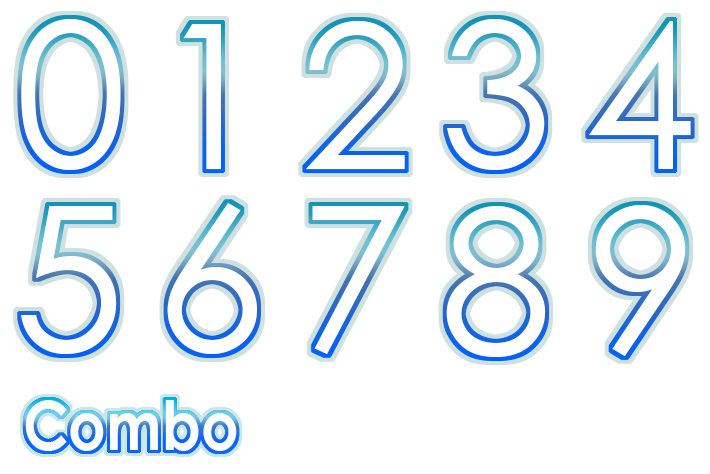
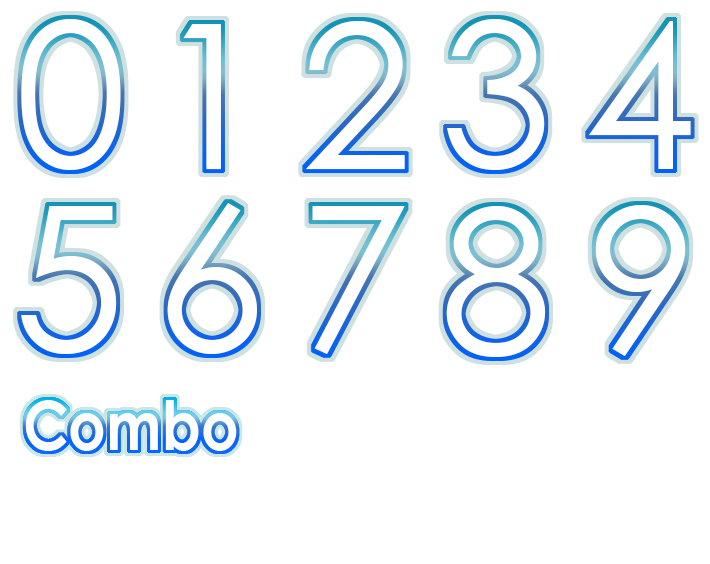
コンボ表示を実装。

diff --git a/DTXmatixx/ステージ/演奏/コンボ.cs b/DTXmatixx/ステージ/演奏/コンボ.cs
@@ -3,8 +3,11 @@ using System.Collections.Generic;
 using System.Diagnostics;
 using System.Linq;
 using SharpDX;
+using SharpDX.Animation;
+using SharpDX.Direct2D1;
 using FDK;
 using FDK.メディア;
+using FDK.カウンタ;
 
 namespace DTXmatixx.ステージ.演奏
 {
@@ -14,62 +17,245 @@ namespace DTXmatixx.ステージ.演奏
 		{
 			get;
 			set;
-		} = 1234567;
+		} = 0;
 
 		public コンボ()
 		{
-			this.子リスト.Add( this._コンボ文字画像 = new テクスチャ( @"$(System)images\コンボ文字.png" ) );
+			this.子リスト.Add( this._コンボ文字画像 = new 画像( @"$(System)images\コンボ文字.png" ) );
 		}
 
 		protected override void On活性化( グラフィックデバイス gd )
 		{
 			using( Log.Block( FDKUtilities.現在のメソッド名 ) )
 			{
+				this.現在値 = 0;
+				this._前回表示した値 = 0;
+				this._前回表示した数字 = "    ";
 				this._コンボ文字画像の矩形 = new 矩形リスト( @"$(System)images\コンボ文字矩形.xml" );
+
+				this._各桁のアニメ = new 各桁のアニメ[ 4 ];
+				for( int i = 0; i < this._各桁のアニメ.Length; i++ )
+					this._各桁のアニメ[ i ] = new 各桁のアニメ();
+
+				this._百ごとのアニメ = new 百ごとのアニメ();
 			}
 		}
 		protected override void On非活性化( グラフィックデバイス gd )
 		{
 			using( Log.Block( FDKUtilities.現在のメソッド名 ) )
 			{
+				for( int i = 0; i < this._各桁のアニメ.Length; i++ )
+					this._各桁のアニメ[ i ].Dispose();
+				this._各桁のアニメ = null;
+
+				FDKUtilities.解放する( ref this._百ごとのアニメ );
 			}
 		}
 
-		public void 進行描画する( グラフィックデバイス gd )
+		/// <param name="全体の中央位置">
+		///		パネル(dc)の左上を原点とする座標。
+		/// </param>
+		public void 進行描画する( DeviceContext1 dc, アニメーション管理 am, Vector2 全体の中央位置 )
 		{
-			// テクスチャは画面中央が (0,0,0) で、Xは右がプラス方向, Yは上がプラス方向, Zは奥がプラス方向+。
+			int Combo値 = Math.Min( Math.Max( this.現在値, 0 ), 9999 );  // プロパティには制限はないが、表示は9999でカンスト。
 
-			var 画面左上dpx = new Vector3(  // 3D視点で見る画面左上の座標。
-				-gd.設計画面サイズ.Width / 2f,
-				+gd.設計画面サイズ.Height / 2f,
-				0f );
+			if( Combo値 < 10 )
+				return; // 10未満は表示しない。
 
-			var 数字 = this.現在値.ToString();
+			// 100を超えるたびアニメ開始。
+			if( ( this._前回表示した値 % 100 ) > ( Combo値 % 100 ) )
+			{
+				this._百ごとのアニメ.開始( am );
+			}
 
-			float 数字全体の幅dpx = 0f;
-			for( int i = 0; i < 数字.Length; i++ )
-				数字全体の幅dpx += this._コンボ文字画像の矩形[ 数字[ i ].ToString() ].Value.Size.Width;
+			var 数字 = Combo値.ToString().PadLeft( 4 ).Replace( ' ', 'o' ); // 右詰め4桁、余白は 'o'。
 
-			float Xdpx = -( 数字全体の幅dpx / 2f );
+			var 画像矩形から表示矩形への拡大率 = new Vector2( 264f / ( 142f * 4f ), 140f / 188f );
+			var 文字間隔補正 = -10f;
+
+			var 全体の拡大率 = new Vector2( (float) ( this._百ごとのアニメ.拡大率?.Value ?? 1.0 ) );
+
+			// 全体のサイズを算出。
+			var 全体のサイズ = new Vector2( 0f, 0f );
 			for( int i = 0; i < 数字.Length; i++ )
 			{
 				var 矩形 = this._コンボ文字画像の矩形[ 数字[ i ].ToString() ].Value;
-
-				//矩形.Width *= 0.5f;   // 修正
-
-				var 変換行列 =
-					Matrix.Scaling( 矩形.Width, 矩形.Height, 1f ) *
-					Matrix.Translation( Xdpx, 0f, 0f ) *  // ローカル座標での移動
-					Matrix.RotationY( MathUtil.DegreesToRadians( +48f ) ) *
-					Matrix.Translation( 画面左上dpx.X + 1506f, 画面左上dpx.Y - 530f, 0f );  // ワールド座標での移動
-
-				this._コンボ文字画像.描画する( gd, 変換行列, 矩形 );
-
-				Xdpx += 矩形.Width;// - 10f; // ちょっと詰める
+				全体のサイズ.X += 矩形.Width + 文字間隔補正;      // 合計
+				全体のサイズ.Y = Math.Max( 全体のサイズ.Y, 矩形.Height ); // 最大値
 			}
+			全体のサイズ = 全体のサイズ * 画像矩形から表示矩形への拡大率;
+
+			// 全体の位置を修正。
+			全体の中央位置.Y -= 全体のサイズ.Y / 2f;
+			var 振動幅 = (float) ( this._百ごとのアニメ.振動幅?.Value ?? 0.0f );
+			if( 0.0f < 振動幅 )
+			{
+				全体の中央位置.X += App.乱数.NextFloat( -振動幅, +振動幅 );
+				全体の中央位置.Y += App.乱数.NextFloat( -振動幅, +振動幅 );
+			}
+
+			// １桁ずつ表示。
+
+			var 文字の位置 = new Vector2( -( 全体のサイズ.X / 2f ), 0f );
+
+			for( int i = 0; i < 数字.Length; i++ )
+			{
+				if( 数字[ i ] != this._前回表示した数字[ i ] )
+				{
+					// 桁アニメーション開始
+					this._各桁のアニメ[ i ].落下開始( am );
+
+					// 1の位以外は、自分より上位の桁を順番に跳ねさせる。
+					if( 3 > i )
+					{
+						for( int p = ( i - 1 ); p >= 0; p-- )
+							this._各桁のアニメ[ p ].跳ね開始( am, 0.05 * ( ( i - 1 ) - p + 1 ) );
+					}
+				}
+
+				var 転送元矩形 = (RectangleF) this._コンボ文字画像の矩形[ 数字[ i ].ToString() ];
+
+				dc.Transform =
+					Matrix3x2.Scaling( 画像矩形から表示矩形への拡大率 ) *
+					Matrix3x2.Translation( 文字の位置.X, 文字の位置.Y + (float) ( this._各桁のアニメ[ i ].Yオフセット?.Value ?? 0.0f ) ) *
+					Matrix3x2.Scaling( 全体の拡大率.X, 全体の拡大率.Y, center: new Vector2( 0f, 全体のサイズ.Y / 2f ) ) *
+					Matrix3x2.Translation( 全体の中央位置 );
+
+				dc.DrawBitmap( this._コンボ文字画像.Bitmap, (float) ( this._各桁のアニメ[ i ].不透明度?.Value ?? 1.0f ), BitmapInterpolationMode.Linear, 転送元矩形 );
+
+				文字の位置.X += ( 転送元矩形.Width + 文字間隔補正 ) * 画像矩形から表示矩形への拡大率.X;
+			}
+
+			// "Combo"
+			{
+				var 転送元矩形 = (RectangleF) this._コンボ文字画像の矩形[ "Combo" ];
+				文字の位置 = new Vector2( 0f, 130f );
+
+				dc.Transform =
+					Matrix3x2.Scaling( 画像矩形から表示矩形への拡大率 ) *
+					Matrix3x2.Translation( 文字の位置 ) *
+					Matrix3x2.Scaling( 全体の拡大率 ) *
+					Matrix3x2.Translation( 全体の中央位置 );
+
+				dc.DrawBitmap( this._コンボ文字画像.Bitmap, 1.0f, BitmapInterpolationMode.Linear, 転送元矩形 );
+			}
+
+			// 保存
+			this._前回表示した値 = this.現在値;
+			this._前回表示した数字 = 数字;
 		}
 
-		private テクスチャ _コンボ文字画像 = null;
+		private int _前回表示した値 = 0;
+		private string _前回表示した数字 = "    ";
+		private 画像 _コンボ文字画像 = null;
 		private 矩形リスト _コンボ文字画像の矩形 = null;
+
+		private class 各桁のアニメ : IDisposable
+		{
+			public Storyboard ストーリーボード = null;
+			public Variable Yオフセット = null;
+			public Variable 不透明度 = null;
+
+			public 各桁のアニメ()
+			{
+			}
+			public void Dispose()
+			{
+				this.ストーリーボード?.Abandon();
+				this.ストーリーボード?.Dispose();
+				this.Yオフセット?.Dispose();
+				this.不透明度?.Dispose();
+			}
+			public void 落下開始( アニメーション管理 am )
+			{
+				this.Dispose();
+
+				this.ストーリーボード = new Storyboard( am.Manager );
+				this.Yオフセット = new Variable( am.Manager, initialValue: -70.0 );
+				this.不透明度 = new Variable( am.Manager, initialValue: 1.0 );
+
+				var Yオフセットの遷移 = new List<Transition>() {
+					am.TrasitionLibrary.Linear( 0.05, finalValue: 0.0 ),	// 落下
+					am.TrasitionLibrary.Reversal( 0.03 ),	// 短時間でベクトル反転（下から上へ）
+					am.TrasitionLibrary.Reversal( 0.05 ),	// 上にはねて戻る
+				};
+				for( int i = 0; i < Yオフセットの遷移.Count; i++ )
+				{
+					this.ストーリーボード.AddTransition( this.Yオフセット, Yオフセットの遷移[ i ] );
+					Yオフセットの遷移[ i ].Dispose();
+				}
+				this.ストーリーボード.Schedule( am.Timer.Time );
+			}
+			public void 跳ね開始( アニメーション管理 am, double 遅延sec )
+			{
+				this.Dispose();
+
+				this.ストーリーボード = new Storyboard( am.Manager );
+				this.Yオフセット = new Variable( am.Manager, initialValue: 0.0 );
+				this.不透明度 = new Variable( am.Manager, initialValue: 1.0 );
+
+				var Yオフセットの遷移 = new List<Transition>() {
+					am.TrasitionLibrary.Constant( 遅延sec ),
+					am.TrasitionLibrary.Linear( 0.05, finalValue: -20.0 ),	// 上へ移動
+					am.TrasitionLibrary.Linear( 0.05, finalValue: 0.0 ),	// 下へ戻る
+				};
+				for( int i = 0; i < Yオフセットの遷移.Count; i++ )
+				{
+					this.ストーリーボード.AddTransition( this.Yオフセット, Yオフセットの遷移[ i ] );
+					Yオフセットの遷移[ i ].Dispose();
+				}
+				this.ストーリーボード.Schedule( am.Timer.Time );
+			}
+		};
+		private 各桁のアニメ[] _各桁のアニメ = null;
+
+		private class 百ごとのアニメ : IDisposable
+		{
+			public Storyboard ストーリーボード = null;
+			public Variable 拡大率 = null;
+			public Variable 振動幅 = null;
+
+			public 百ごとのアニメ()
+			{
+			}
+			public void Dispose()
+			{
+				this.ストーリーボード?.Abandon();
+				this.ストーリーボード?.Dispose();
+				this.拡大率?.Dispose();
+				this.振動幅?.Dispose();
+			}
+			public void 開始( アニメーション管理 am )
+			{
+				this.ストーリーボード = new Storyboard( am.Manager );
+				this.拡大率 = new Variable( am.Manager, initialValue: 1.0 );
+				this.振動幅 = new Variable( am.Manager, initialValue: 0.0 );
+
+				var 拡大率の遷移 = new List<Transition>() {
+					am.TrasitionLibrary.Linear( 0.08, finalValue: 1.25 ),
+					am.TrasitionLibrary.Constant( 0.3 ),
+					am.TrasitionLibrary.Linear( 0.08, finalValue: 1.0 ),
+				};
+				for( int i = 0; i < 拡大率の遷移.Count; i++ )
+				{
+					this.ストーリーボード.AddTransition( this.拡大率, 拡大率の遷移[ i ] );
+					拡大率の遷移[ i ].Dispose();
+				}
+
+				var 振動幅の遷移 = new List<Transition>() {
+					am.TrasitionLibrary.Linear( 0.08, finalValue: 6.0 ),
+					am.TrasitionLibrary.Constant( 0.3 ),
+					am.TrasitionLibrary.Linear( 0.08, finalValue: 0.0 ),
+				};
+				for( int i = 0; i < 振動幅の遷移.Count; i++ )
+				{
+					this.ストーリーボード.AddTransition( this.振動幅, 振動幅の遷移[ i ] );
+					振動幅の遷移[ i ].Dispose();
+				}
+
+				this.ストーリーボード.Schedule( am.Timer.Time );
+			}
+		};
+		private 百ごとのアニメ _百ごとのアニメ = null;
 	}
 }

diff --git a/DTXmatixx/ステージ/演奏/演奏ステージ.cs b/DTXmatixx/ステージ/演奏/演奏ステージ.cs
@@ -377,6 +377,9 @@ namespace DTXmatixx.ステージ.演奏
 						this._左サイドクリアパネル.描画する( gd );
 
 						this._右サイドクリアパネル.クリアする( gd );
+						this._右サイドクリアパネル.クリアパネル.ビットマップへ描画する( gd, ( dc, bmp ) => {
+							this._コンボ.進行描画する( dc, gd.Animation, new Vector2( +228f + 264f/2f, +234f ) );
+						} );
 						this._右サイドクリアパネル.描画する( gd );
 
 						this._小節線拍線を描画する( gd, 演奏時刻sec );
@@ -393,7 +396,6 @@ namespace DTXmatixx.ステージ.演奏
 						this._チップを描画する( gd, 演奏時刻sec );
 						this._チップ光.進行描画する( gd );
 						this._判定文字列.進行描画する( gd );
-//						this._コンボ.進行描画する( gd );
 						this._FPS.VPSをカウントする();
 						this._FPS.描画する( gd, 0f, 0f );
 					}
@@ -714,8 +716,7 @@ namespace DTXmatixx.ステージ.演奏
 				{
 					// (A) PERFECT～POOR
 
-					//this._コンボ.COMBO値++;
-
+					this._コンボ.現在値++;
 					this._チップ光.表示を開始する( 対応表.表示レーン種別 );
 
 					//this._ドラムセット.ヒットアニメ開始( 対応表.ドラム入力種別, App.ユーザ管理.選択されているユーザ.オプション設定.表示レーンの左右 );
@@ -730,8 +731,7 @@ namespace DTXmatixx.ステージ.演奏
 				{
 					// (B) MISS
 
-					//this._コンボ.COMBO値 = 0;
-
+					this._コンボ.現在値 = 0;
 					this._判定文字列.表示を開始する( 対応表.表示レーン種別, 判定種別.MISS );
 					//this.ヒットランク別ヒット回数[ hitRankType ]++;
 				}

diff --git a/DTXmatixx/App.cs b/DTXmatixx/App.cs
@@ -69,6 +69,15 @@ namespace DTXmatixx
 			get;
 			protected set;
 		} = null;
+		/// <remarks>
+		///		SharpDX.Mathematics パッケージを参照し、かつ SharpDX 名前空間を using しておくと、
+		///		SharpDX で定義する追加の拡張メソッド（NextFloatなど）を使えるようになる。
+		/// </remarks>
+		public static Random 乱数
+		{
+			get;
+			protected set;
+		} = null;
 
 		public App()
 			: base( 設計画面サイズ: new SizeF( 1920f, 1080f ), 物理画面サイズ: new SizeF( 1920f, 1080f ), 深度ステンシルを使う: false )
@@ -81,8 +90,9 @@ namespace DTXmatixx
 			Folder.フォルダ変数を追加または更新する( "AppData", Path.Combine( Environment.GetFolderPath( Environment.SpecialFolder.ApplicationData, Environment.SpecialFolderOption.Create ), @"DTXMatixx\" ) );
 
 			if( !( Directory.Exists( Folder.フォルダ変数の内容を返す( "AppData" ) ) ) )
-				Directory.CreateDirectory( Folder.フォルダ変数の内容を返す( "AppData" ) );	// なければ作成。
+				Directory.CreateDirectory( Folder.フォルダ変数の内容を返す( "AppData" ) );  // なければ作成。
 
+			App.乱数 = new Random( DateTime.Now.Millisecond );
 			App.Keyboard = new Keyboard( this.Handle );
 			App.ステージ管理 = new ステージ管理();
 			App.曲ツリー = new 曲ツリー();

diff --git a/DTXmatixx/ステージ/演奏/演奏判定パラメータ.cs b/DTXmatixx/ステージ/演奏/演奏判定パラメータ.cs
@@ -113,7 +113,7 @@ namespace DTXmatixx.ステージ.演奏
 		/// <returns>
 		///		すべての判定種別をキーとして含む辞書。
 		/// </returns>
-		private IReadOnlyDictionary<判定種別, int> ヒット割合を取得する()
+		internal IReadOnlyDictionary<判定種別, int> ヒット割合を取得する()
 		{
 			int ヒット数の合計 = 0;
 			var ヒット割合_実数 = new Dictionary<判定種別, double>();  // 実値（0～100）
